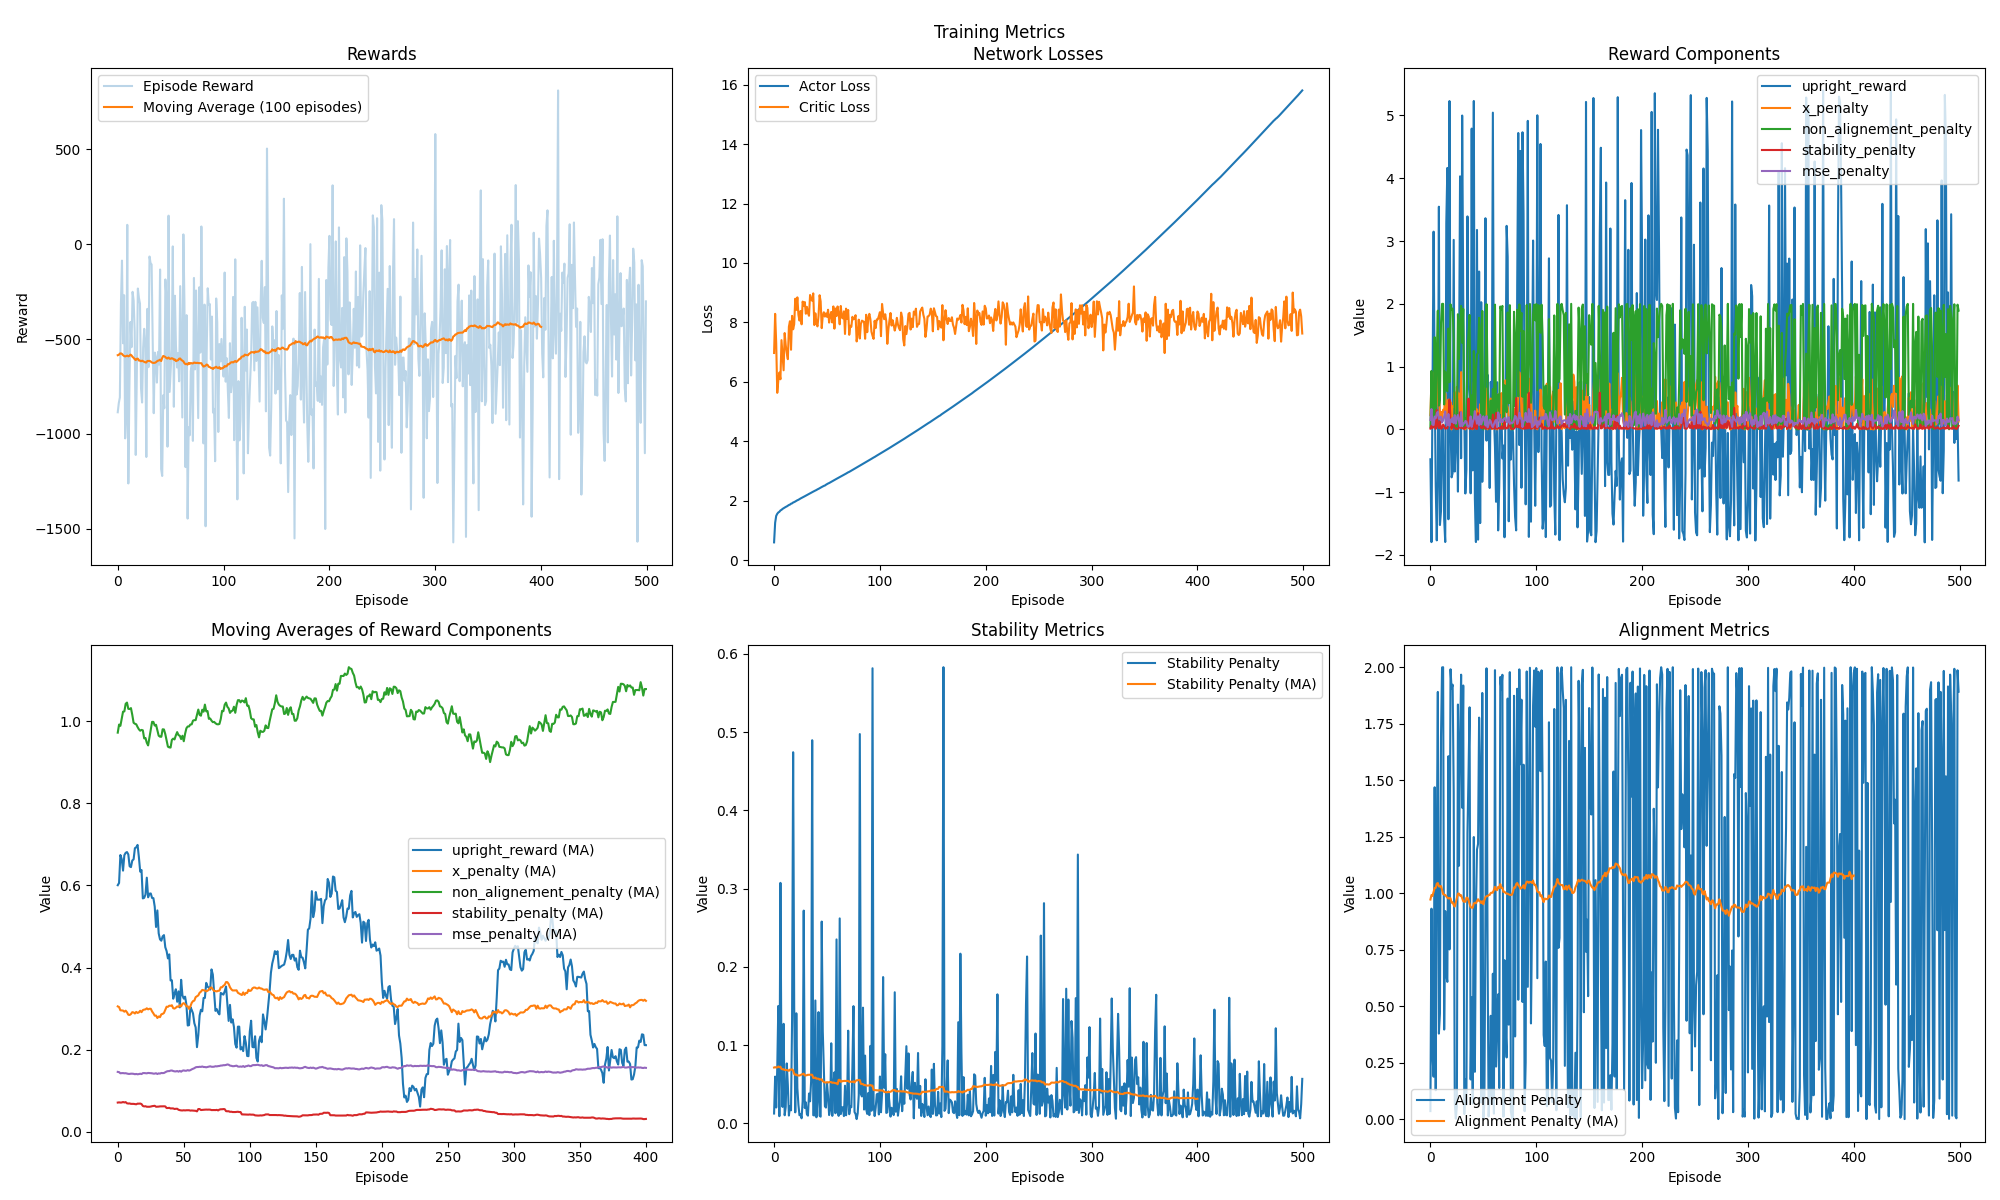
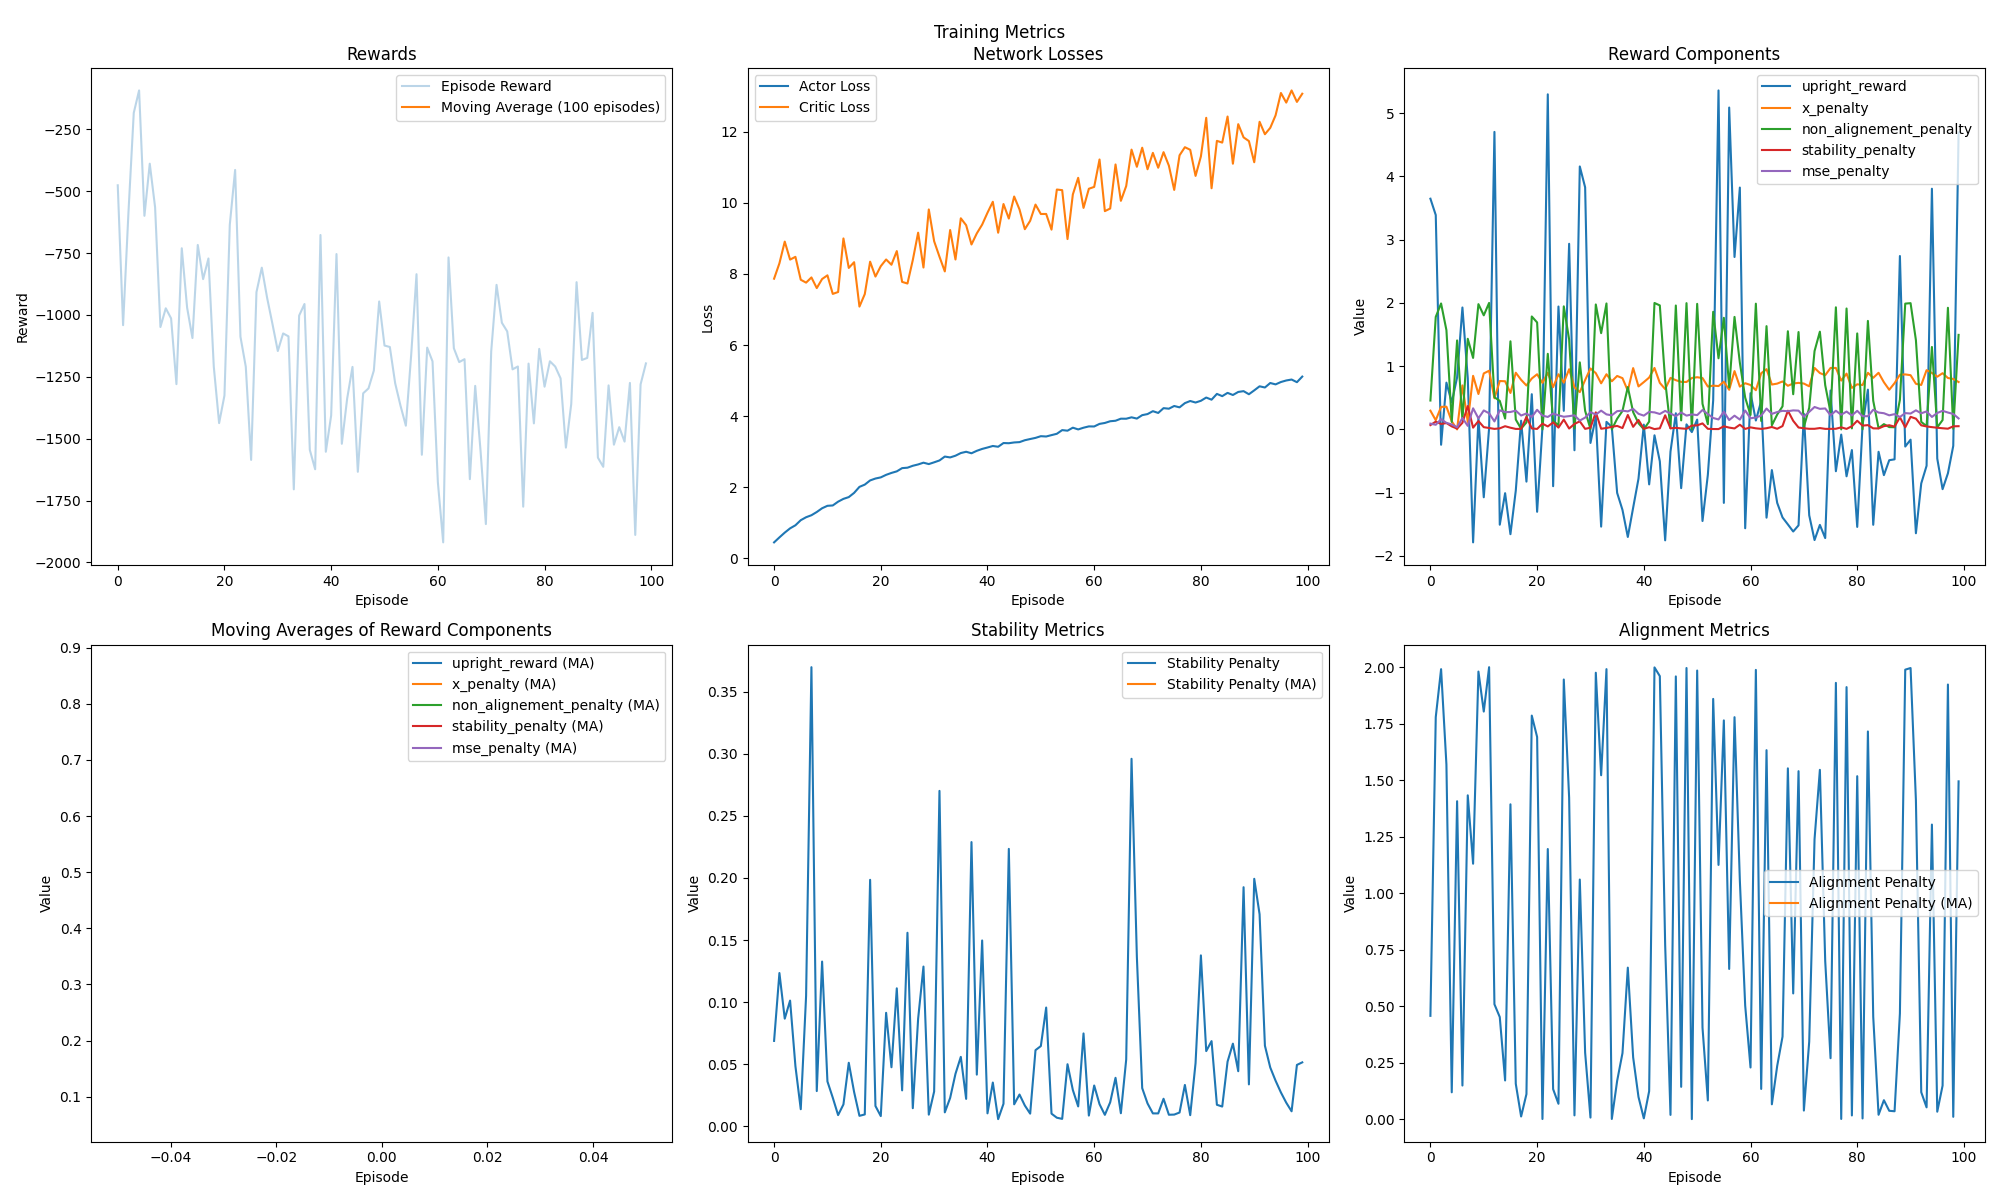
Modification des limites des axes dans metrics.py pour s'adapter dynamiquement aux actions générées. Ajustement des poids d'initialisation dans model.py pour améliorer la stabilité du modèle. Révision de la structure des couches dans TriplePendulumCritic pour optimiser les dimensions et simplificati

diff --git a/model.py b/model.py
@@ -42,7 +42,7 @@ class TriplePendulumActor(nn.Module):
         
         # Output layer
         self.fc_out = nn.Linear(action_dim * 4, action_dim)
-        nn.init.orthogonal_(self.fc_out.weight, gain=0.1)
+        nn.init.orthogonal_(self.fc_out.weight, gain=0.01)
         nn.init.constant_(self.fc_out.bias, 0)
         
         # Dropout for regularization
@@ -83,7 +83,7 @@ class TriplePendulumActor(nn.Module):
         
         # Output layer
         x = self.fc_out(x)
-        return torch.tanh(x) * 1.2
+        return torch.tanh(x)
 
 class TriplePendulumCritic(nn.Module):
     def __init__(self, state_dim, action_dim, hidden_dim=256):
@@ -93,37 +93,19 @@ class TriplePendulumCritic(nn.Module):
         self.input_norm = nn.LayerNorm(state_dim + action_dim)
         
         # First layer
-        self.fc1 = nn.Linear(state_dim + action_dim, hidden_dim)
+        self.fc1 = nn.Linear(state_dim + action_dim, action_dim * 32)
         nn.init.orthogonal_(self.fc1.weight, gain=1.414)
         nn.init.constant_(self.fc1.bias, 0)
-        self.norm1 = nn.LayerNorm(hidden_dim)
+        self.norm1 = nn.LayerNorm(action_dim * 32)
         
         # Second layer
-        self.fc2 = nn.Linear(hidden_dim, hidden_dim//2)
+        self.fc2 = nn.Linear(action_dim * 32, action_dim * 8)
         nn.init.orthogonal_(self.fc2.weight, gain=1.414)
         nn.init.constant_(self.fc2.bias, 0)
-        self.norm2 = nn.LayerNorm(hidden_dim//2)
-        
-        # Third layer
-        self.fc3 = nn.Linear(hidden_dim//2, hidden_dim//4)
-        nn.init.orthogonal_(self.fc3.weight, gain=1.414)
-        nn.init.constant_(self.fc3.bias, 0)
-        self.norm3 = nn.LayerNorm(hidden_dim//4)
-        
-        # Fourth layer
-        self.fc4 = nn.Linear(hidden_dim//4, hidden_dim//8)
-        nn.init.orthogonal_(self.fc4.weight, gain=1.414)
-        nn.init.constant_(self.fc4.bias, 0)
-        self.norm4 = nn.LayerNorm(hidden_dim//8)
-        
-        # Fifth layer
-        self.fc5 = nn.Linear(hidden_dim//8, action_dim * 4)
-        nn.init.orthogonal_(self.fc5.weight, gain=1.414)
-        nn.init.constant_(self.fc5.bias, 0)
-        self.norm5 = nn.LayerNorm(action_dim * 4)
+        self.norm2 = nn.LayerNorm(action_dim * 8)
         
         # Output layer
-        self.fc_out = nn.Linear(action_dim * 4, 1)
+        self.fc_out = nn.Linear(action_dim * 8, 1)
         nn.init.orthogonal_(self.fc_out.weight, gain=1)
         nn.init.constant_(self.fc_out.bias, 0)
         
@@ -147,23 +129,6 @@ class TriplePendulumCritic(nn.Module):
         x = self.norm2(x)
         x = F.leaky_relu(x)
         x = self.dropout(x)
-        
-        # Third layer
-        x = self.fc3(x)
-        x = self.norm3(x)
-        x = F.leaky_relu(x)
-        x = self.dropout(x)
-        
-        # Fourth layer
-        x = self.fc4(x)
-        x = self.norm4(x)
-        x = F.leaky_relu(x)
-        x = self.dropout(x)
-        
-        # Fifth layer
-        x = self.fc5(x)
-        x = self.norm5(x)
-        x = F.leaky_relu(x)
         
         # Output layer
         x = self.fc_out(x)

diff --git a/train.py b/train.py
@@ -54,8 +54,8 @@ class TriplePendulumTrainer:
         
         # Exploration parameters
         self.epsilon = 1.0  # Initial random action probability
-        self.epsilon_decay = 0.995  # Epsilon decay rate - ralenti la décroissance
-        self.min_epsilon = 0.05  # Minimum epsilon - augmenté pour maintenir l'exploration
+        self.epsilon_decay = 0.999  # Epsilon decay rate
+        self.min_epsilon = 0.001  # Minimum epsilon
         
         # Replay buffer
         self.memory = ReplayBuffer(capacity=config['buffer_capacity'])
@@ -171,13 +171,9 @@ class TriplePendulumTrainer:
         current_q = self.critic(states, actions)
         with torch.no_grad():
             next_actions = self.actor(next_states)
-            # Ajout de bruit target pour stabiliser l'apprentissage
-            noise = torch.clamp(torch.randn_like(next_actions) * 0.1, -0.2, 0.2)
-            next_actions = torch.clamp(next_actions + noise, -1, 1)
             target_q = rewards + (1 - dones) * self.config['gamma'] * self.critic(next_states, next_actions)
         
-        # Utiliser Huber Loss au lieu de MSE pour être plus robuste aux valeurs aberrantes
-        critic_loss = F.smooth_l1_loss(current_q, target_q)
+        critic_loss = F.mse_loss(current_q, target_q)
         self.critic_optimizer.zero_grad()
         critic_loss.backward()
         # Add gradient clipping for critic

diff --git a/metrics.py b/metrics.py
@@ -262,7 +262,7 @@ class MetricsTracker:
         plt.title('Distribution des actions générées par le modèle d\'acteur')
         plt.xlabel('Action')
         plt.ylabel('Fréquence')
-        plt.xlim(-1, 1)
+        plt.xlim(max(-1, min(actions_np) - 0.2), min(max(actions_np) + 0.2, 1))
 
         # Distribution des valeurs Q
         plt.subplot(2, 1, 2)
@@ -270,7 +270,6 @@ class MetricsTracker:
         plt.title('Distribution des valeurs Q générées par le modèle de critique')
         plt.xlabel('Valeur Q')
         plt.ylabel('Fréquence')
-        plt.xlim(-1, 1)
         
         plt.tight_layout()
         
